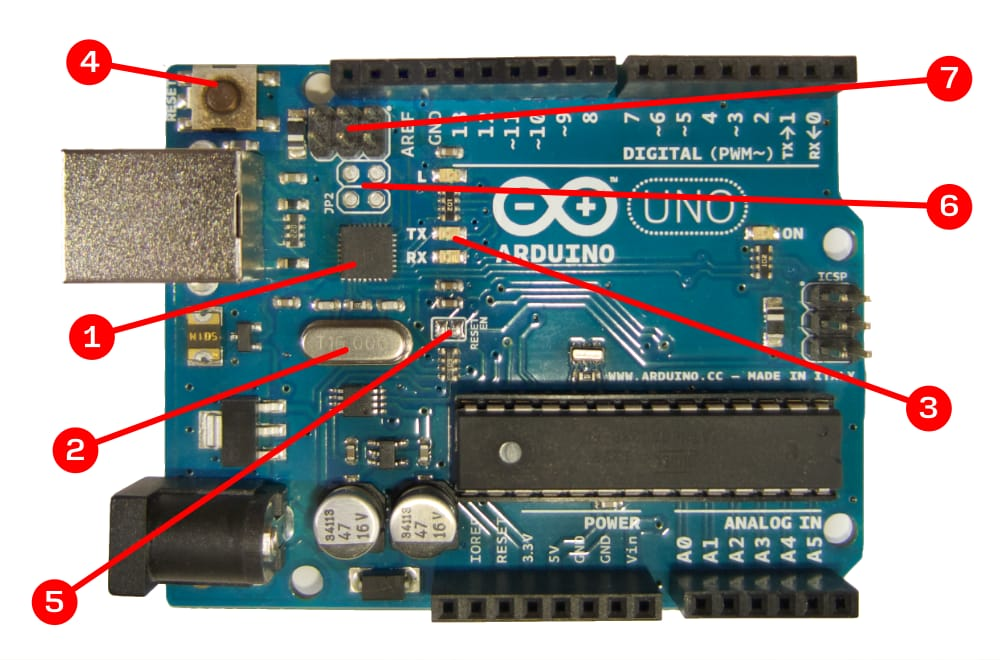
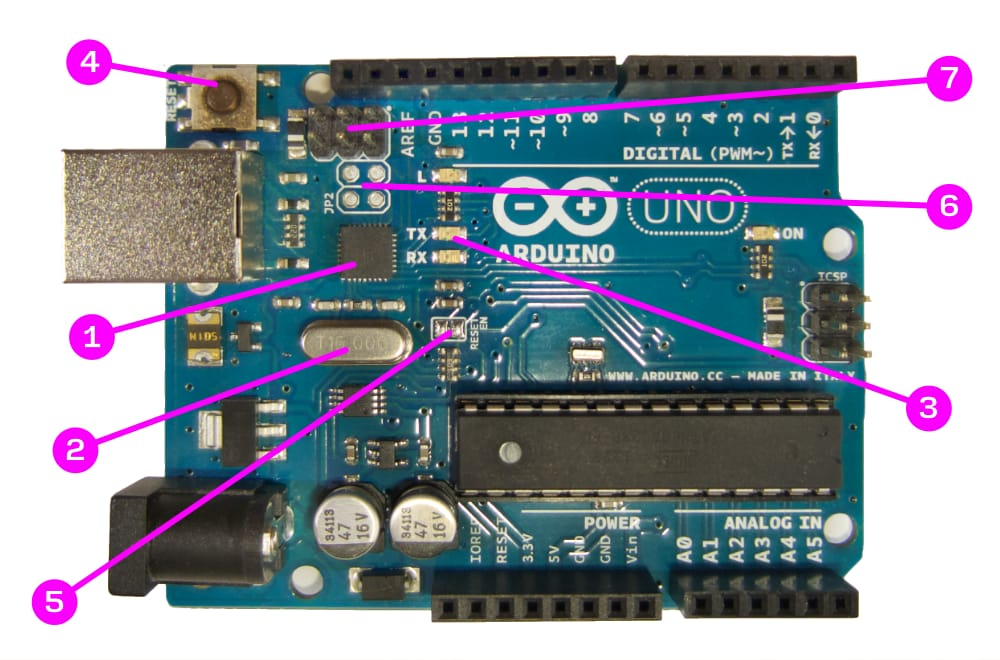
Intro + colouring

diff --git a/content/posts/2019-11-30-arduino-hardware/index.md b/content/posts/2019-11-30-arduino-hardware/index.md
@@ -11,22 +11,33 @@ url = "iJ6fF/arduino-hardware-layout"
 aliases = ["iJ6fF"]
 +++
 
-https://en.wikipedia.org/wiki/Integrated_circuit
-
 <style>
     .pillbox {
-        background-color: #f00;
         color: #fff;
-        padding: 1px 5px;
-        border-radius: 50%;
+        padding: 1px 6px;
+        border-radius: 10px;
     }
+    .pillbox-red { background-color: #ff0000 }
+    .pillbox-cyan { background-color: #00e478 }
+    .pillbox-pink { background-color: #fb00ff }
+    .pillbox-green { background-color: #6adc00 }
 </style>
+
+One magnificent thing about Arduino is how easy it is to get started. You virtually don’t need to know anything about the innards of microcontrollers or the techniques how to program them. Instead, just connect the Arduino board to your computer with USB and upload a simple sketch-file via the Arduino IDE and voilà – you can already make the onboard LED blink.
+
+If you inspect your Arduino device closer, however, it becomes obvious that there is quite some stuff that is obviously needed to make all of this convenience happen. And in case you have no (or little) idea what all those things are that you see there, this blog post will explain them to you – all of them.
+
+A few miscellaneous remarks though, before we start:
+
+- For this post I used the Arduino Uno rev3 with an AVR ATmega328 chip. There exist some variations of this, other models will look completely different in their layout. However, you still should be able to spot a lot of differences and similarities.
+- I roughly devided the board into 4 sections: the main microcontroller unit, the power supply, the controlling unit and eventually generic components and wiring. These categories, however, are not “official”, so you won’t find these terms consistently used everywhere.
+- For what it’s worth, the back-side of the board isn’t all that interesting. In case you want to see it though, I provided you with a [picture of it here](/posts/2019-11-30-arduino-hardware/arduino-backside.jpg).
 
 # Main microcontroller
 
 ![Arduino board](/posts/2019-11-30-arduino-hardware/arduino-main-unit.jpg)
 
-The <span class="pillbox">1</span> ATmega328 microcontroller is the heart of the Arduino Uno. It is a fully self-contained mini computer that provides - among others – the following functionalities:
+The <span class="pillbox pillbox-red">1</span> ATmega328 microcontroller is the heart of the Arduino Uno. It is a fully self-contained mini computer that provides - among others – the following functionalities:
 
 - Computing unit (CPU and ALU) for executing programs and processing data
 - Volatile memory (2 Kb) to hold program and data during runtime
@@ -35,15 +46,15 @@ The <span class="pillbox">1</span> ATmega328 microcontroller is the heart of the
 - Electrical input and output ports, both digital and analog
 - A serial interface for incoming and outgoing communication
 
-As you can see, when we are speaking about the core functions of the Arduino we are actually referring to genuinely provided capabilities of the ATmega328 microcontroller. And indeed, all the pins described below are directly wired to the ports of the ATmega328. There is only one external device involved: a <span class="pillbox">2</span> 16 MHz ceramic resonator, which is not just twice as fast than the build-in one but also more precise.
+As you can see, when we are speaking about the core functions of the Arduino we are actually referring to genuinely provided capabilities of the ATmega328 microcontroller. And indeed, all the pins described below are directly wired to the ports of the ATmega328. There is only one external device involved: a <span class="pillbox pillbox-red">2</span> 16 MHz ceramic resonator, which is not just twice as fast than the build-in one but also more precise.
 
-The array of <span class="pillbox">3</span> 14 digital pins can be used as input or output for binary signals. Some of the pins are marked with a `~` sign to indicate that they can also act as analog output. These are technically still digital pins though, because the analog signal is created by a mechanism called “pulse-width modulation”. The respective pins are associatetd with timers that can toggle the binary signal in rapid succession, thereby creating a quasi-analog signal determined by the ratio between on-time and off-time. Pin 0 and 1 serve a double-purpose, they also handle serial data reception (RX) and transmission (TX). Pin 13 is wired to the <span class="pillbox">4</span> onboard LED.
+The array of <span class="pillbox pillbox-red">3</span> 14 digital pins can be used as input or output for binary signals. Some of the pins are marked with a `~` sign to indicate that they can also act as analog output. These are technically still digital pins though, because the analog signal is created by a mechanism called “pulse-width modulation”. The respective pins are associatetd with timers that can toggle the binary signal in rapid succession, thereby creating a quasi-analog signal determined by the ratio between on-time and off-time. Pin 0 and 1 serve a double-purpose, they also handle serial data reception (RX) and transmission (TX). Pin 13 is wired to the <span class="pillbox pillbox-red">4</span> onboard LED.
 
-Six <span class="pillbox">5</span> Analog Input Pins can convert analog input signals to a discrete integer value. The Atmega contains one analog-digital-converter for that purpose, which is shared across all those pins. The conversion process is relatively slow and takes around 0.1 ms, which makes for a overall maximum of about 10.000 AD-conversions per second (10 kHz). Apart from that, the analog input pins can also be used as ordinary digital pins.
+Six <span class="pillbox pillbox-red">5</span> Analog Input Pins can convert analog input signals to a discrete integer value. The Atmega contains one analog-digital-converter for that purpose, which is shared across all those pins. The conversion process is relatively slow and takes around 0.1 ms, which makes for a overall maximum of about 10.000 AD-conversions per second (10 kHz). Apart from that, the analog input pins can also be used as ordinary digital pins.
 
-Apart from the I/O pins there are a bunch of <span class="pillbox">6</span> pins for receiving power from or providing it to the outside, or for setting reference voltages. Apart from that, the two leftmost pins in the upper pin array are for connecting periphals via the I²C Bus (labelled SDA and SCL on the back-side). And finally the outermost pin in the lower pin array is blind and not connected to anything.
+Apart from the I/O pins there are a bunch of <span class="pillbox pillbox-red">6</span> pins for receiving power from or providing it to the outside, or for setting reference voltages. Apart from that, the two leftmost pins in the upper pin array are for connecting periphals via the I²C Bus (labelled SDA and SCL on the back-side). And finally the outermost pin in the lower pin array is blind and not connected to anything.
 
-A <span class="pillbox">7</span> 6-pin male connector nearby the Atmega chip provides an ISCP interface that can be used to transfer programs to the microcontroller via an external programming device. You’ll find yet another ISCP connector on the board, which we’ll cover later, since it’s not related to the ATmega328 chip.
+A <span class="pillbox pillbox-red">7</span> 6-pin male connector nearby the Atmega chip provides an ISCP interface that can be used to transfer programs to the microcontroller via an external programming device. You’ll find yet another ISCP connector on the board, which we’ll cover later, since it’s not related to the ATmega328 chip.
 
 # Power supply
 
@@ -51,37 +62,37 @@ A <span class="pillbox">7</span> 6-pin male connector nearby the Atmega chip pro
 
 The power supply section of the Arduino board is a sophisticated (read: well thought out) circuitry whose job is to ensure that a stable current is supplied to the board. You can think of it as an antechamber, where incoming current is regulated and stabilised before it is fed into the board’s 5V power supplies. The components of Arduino are quite sensitive in regards to electricity: ups and downs of the current could cause random malfunctions, undervoltage might slow down the board, and overvoltage can quickly cause severe damage that might be hard or impossible to repair. Hence, it is utterly important to have well-regulated 5V flowing within the power supplies.
 
-Arduino is able to draw power from various sources. The most obvious one is the <span class="pillbox">1</span> USB Socket, which is supposed to provide 5V according to the USB standard. This happens to presicely match the demand of the ATmega328 chip and can thus be used as is. Only a <span class="pillbox">2</span> fuse is needed to prevent damage to the board and the connected host computer from electrical overload, potentially caused by connected components drawing too much power.
+Arduino is able to draw power from various sources. The most obvious one is the <span class="pillbox pillbox-cyan">1</span> USB Socket, which is supposed to provide 5V according to the USB standard. This happens to presicely match the demand of the ATmega328 chip and can thus be used as is. Only a <span class="pillbox pillbox-cyan">2</span> fuse is needed to prevent damage to the board and the connected host computer from electrical overload, potentially caused by connected components drawing too much power.
 
-Another way of supplying power is via the <span class="pillbox">3</span> coaxial power connector (or: barrel connector). Incoming current first passes a <span class="pillbox">4</span> diode, which only allows current to flow into one direction. This is a safety measure against coaxial connectors with wrong polarity. The current is buffered in two big <span class="pillbox">5</span> capacitators that absorb electrical fluctuations in order to stabilize the power supply. Next, the big <span class="pillbox">6</span> voltage regulator converts the input current from a maximum of 17V down to a steady 5V output that is then eventually fed into the board’s power supply. The regulator will produce a considerable amount of heat though, depending on how close you get to the allowed input maximum.
+Another way of supplying power is via the <span class="pillbox pillbox-cyan">3</span> coaxial power connector (or: barrel connector). Incoming current first passes a <span class="pillbox pillbox-cyan">4</span> diode, which only allows current to flow into one direction. This is a safety measure against coaxial connectors with wrong polarity. The current is buffered in two big <span class="pillbox pillbox-cyan">5</span> capacitators that absorb electrical fluctuations in order to stabilize the power supply. Next, the big <span class="pillbox pillbox-cyan">6</span> voltage regulator converts the input current from a maximum of 17V down to a steady 5V output that is then eventually fed into the board’s power supply. The regulator will produce a considerable amount of heat though, depending on how close you get to the allowed input maximum.
 
-The power lines of both described sources are connected to a <span class="pillbox">7</span> dual-operational amplifier. It contains an analog comparator that decides which of the two sources shall be drawn from and that toggles a <span class="pillbox">8</span> transistor accordingly. (A transistor basically is an electrically controlled switch.) 
+The power lines of both described sources are connected to a <span class="pillbox pillbox-cyan">7</span> dual-operational amplifier. It contains an analog comparator that decides which of the two sources shall be drawn from and that toggles a <span class="pillbox pillbox-cyan">8</span> transistor accordingly. (A transistor basically is an electrically controlled switch.) 
 
 Apart from all that, there is also the option to provide power through either the Vin-Pin or the 5V Pin. In the first case, current takes the same path as described for the coaxial power connector with the exception of the diode, which is not passed. In the second case, power is fed right into the board’s power supplies without any further ado and therefor required to be regulated externally.
 
-Another smaller <span class="pillbox">9</span> voltage regulator reduces the regulated 5V down to 3.3V and forwards it to the 3.3V power Pin. The <span class="pillbox">10</span> Power-LED is wired directly to 5V and thus will light up whenever current is available in the board’s power supplies. Consequently, if it doesn’t shine, there is either no power at all or the LED is broken.
+Another smaller <span class="pillbox pillbox-cyan">9</span> voltage regulator reduces the regulated 5V down to 3.3V and forwards it to the 3.3V power Pin. The <span class="pillbox pillbox-cyan">10</span> Power-LED is wired directly to 5V and thus will light up whenever current is available in the board’s power supplies. Consequently, if it doesn’t shine, there is either no power at all or the LED is broken.
 
 # The controlling unit
 
 ![Arduino board](/posts/2019-11-30-arduino-hardware/arduino-controlling.jpg)
 
-Arduino offers a very convenient way to load sketches from your computer onto the board via USB. Apart from the Arduino IDE (or some equivalent software tool) there are several hardware components in place to make this happen. For one, there is yet another fully fledged <span class="pillbox">1</span> microcontroller mounted, an ATmega16U2. It’s main responsibilities are to forward new sketches to the ATmega328 and to take care of the serial communication via USB to the host computer. Since USB has high demands in terms of clock precision, there is a dedicated <span class="pillbox">2</span> 16 MHz quartz crystal connected. (Which is not wired to the ATmega328, by the way, as one could easily suppose!) The ATmega16U2 is connected via the TX and RX pins to the ATmega328. The latter has a special bootloading sequence preinstalled that takes care of receiving newly available sketches from the former. The <span class="pillbox">3</span> TX and RX LEDs flash to indicate that there is serial communication going on.
+Arduino offers a very convenient way to load sketches from your computer onto the board via USB. Apart from the Arduino IDE (or some equivalent software tool) there are several hardware components in place to make this happen. For one, there is yet another fully fledged <span class="pillbox pillbox-pink">1</span> microcontroller mounted, an ATmega16U2. It’s main responsibilities are to forward new sketches to the ATmega328 and to take care of the serial communication via USB to the host computer. Since USB has high demands in terms of clock precision, there is a dedicated <span class="pillbox pillbox-pink">2</span> 16 MHz quartz crystal connected. (Which is not wired to the ATmega328, by the way, as one could easily suppose!) The ATmega16U2 is connected via the TX and RX pins to the ATmega328. The latter has a special bootloading sequence preinstalled that takes care of receiving newly available sketches from the former. The <span class="pillbox pillbox-pink">3</span> TX and RX LEDs flash to indicate that there is serial communication going on.
 
-There are multiple ways to restart the Arduino, the easiest of which is to press the onboard <span class="pillbox">4</span> reset button. Unlike previous versions of the Arduino Uno, you don’t have to manually reset it after uploading a new sketch, because the ATmega16U2 issues a reset signal after every upload. If you want, you can prevent that from happening by physically cutting out the metal in the <span class="pillbox">5</span> “reset-enable” jumper, which effectively interrupts the signal coming from both the reset button and the ATmega16U2.
+There are multiple ways to restart the Arduino, the easiest of which is to press the onboard <span class="pillbox pillbox-pink">4</span> reset button. Unlike previous versions of the Arduino Uno, you don’t have to manually reset it after uploading a new sketch, because the ATmega16U2 issues a reset signal after every upload. If you want, you can prevent that from happening by physically cutting out the metal in the <span class="pillbox pillbox-pink">5</span> “reset-enable” jumper, which effectively interrupts the signal coming from both the reset button and the ATmega16U2.
 
-An interesting option for expert users might be to connect something to the <span class="pillbox">6</span> JP2 jumpers. These are directly wired to four unoccupied input channels on the ATmega16U2, which are free to use. That, however, would necessarily imply to manually upload a program via the ⑦ ISCP connector of the ATmega16U2.
+An interesting option for expert users might be to connect something to the <span class="pillbox pillbox-pink">6</span> JP2 jumpers. These are directly wired to four unoccupied input channels on the ATmega16U2, which are free to use. That, however, would necessarily imply to manually upload a program via the <span class="pillbox pillbox-pink">7</span> ISCP connector of the ATmega16U2.
 
 # Wiring
 
 ![Arduino board](/posts/2019-11-30-arduino-hardware/arduino-wiring.jpg)
 
-Now that we have an understanding of the individual components, let’s have a look at how everything plays together. There aren’t any wires on the board, electricity rather flows through <span class="pillbox">1</span> conductive traces. The Arduino Uno is a so-called printed circuit board (PCB), which means that there is a conducting layer on the top and on the bottom of the board. During the manufacturing process a layout of traces and areas (think: roads and places) is printed onto the surfaces, which are then treated with acid. That way the non-printed surface sections vanish and distinct electrical pathways remain. On the top-side all the lighter colours are conductive, whereas the darker ones are non-conductive. On the bottom-side it’s the greyish colours that conduct, while white is isolating. The numerous <span class="pillbox">2</span> little holes are called “vias” and act as a loophole bridging over pathes from one side to the other. This is the only way to avoid unwanted intersections between traces. The <span class="pillbox">3</span> conductive areas on both sides conduct ground voltage (GND) for the greater part.
+Now that we have an understanding of the individual components, let’s have a look at how everything plays together. There aren’t any wires on the board, electricity rather flows through <span class="pillbox pillbox-green">1</span> conductive traces. The Arduino Uno is a so-called printed circuit board (PCB), which means that there is a conducting layer on the top and on the bottom of the board. During the manufacturing process a layout of traces and areas (think: roads and places) is printed onto the surfaces, which are then treated with acid. That way the non-printed surface sections vanish and distinct electrical pathways remain. On the top-side all the lighter colours are conductive, whereas the darker ones are non-conductive. On the bottom-side it’s the greyish colours that conduct, while white is isolating. The numerous <span class="pillbox pillbox-green">2</span> little holes are called “vias” and act as a loophole bridging over pathes from one side to the other. This is the only way to avoid unwanted intersections between traces. The <span class="pillbox pillbox-green">3</span> conductive areas on both sides conduct ground voltage (GND) for the greater part.
 
 Upon closer look you see some smaller surface-mounted devices (SMD) here and there:
 
-- <span class="pillbox">4</span> Capacitators are mostly used for decoupling (read: smoothening) the current flow. The clock-rate of 16 MhZ would otherwise be enough to introduce a lot of noise and thus cause erratic behaviour.
-- <span class="pillbox">5</span> Diodes are there for ensuring the current direction and preventing potential damage by reverse polarisation induced from the outside.
-- <span class="pillbox">6</span> Resistors are limiting the amount of current. They can also appear bundled as <span class="pillbox">7</span> resistor networks for space-efficiency.
+- <span class="pillbox pillbox-green">4</span> Capacitators are mostly used for decoupling (read: smoothening) the current flow. The clock-rate of 16 MhZ would otherwise be enough to introduce a lot of noise and thus cause erratic behaviour.
+- <span class="pillbox pillbox-green">5</span> Diodes are there for ensuring the current direction and preventing potential damage by reverse polarisation induced from the outside.
+- <span class="pillbox pillbox-green">6</span> Resistors are limiting the amount of current. They can also appear bundled as <span class="pillbox pillbox-green">7</span> resistor networks for space-efficiency.
 
 
 [^1]: Like all AVR chips, the ATmega328 has modified harvard architecture, where program and data are stored in separate physical memory systems.
